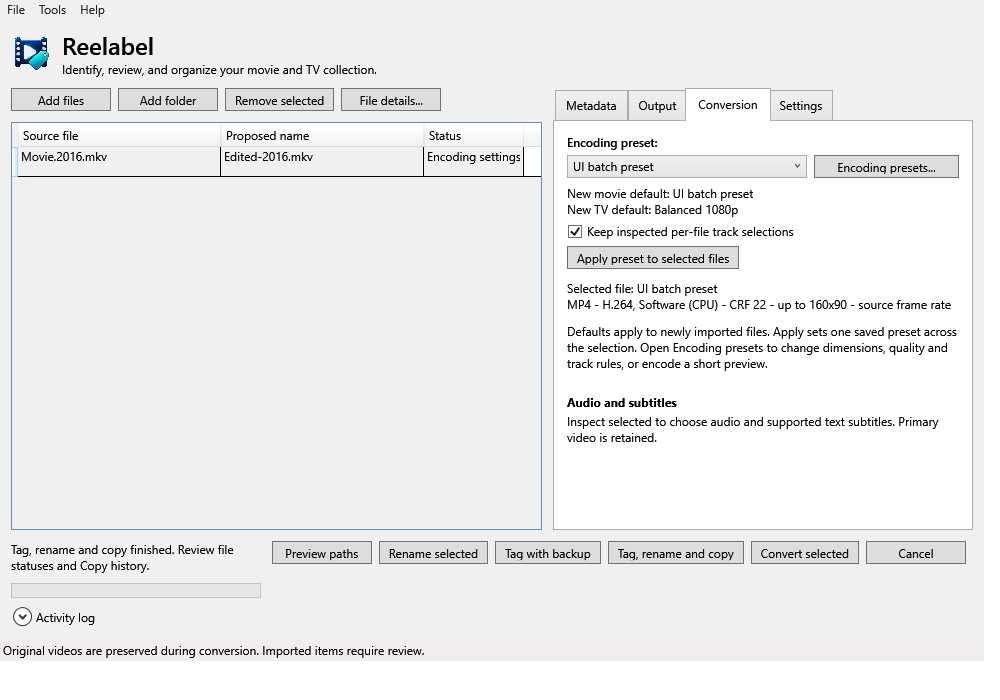
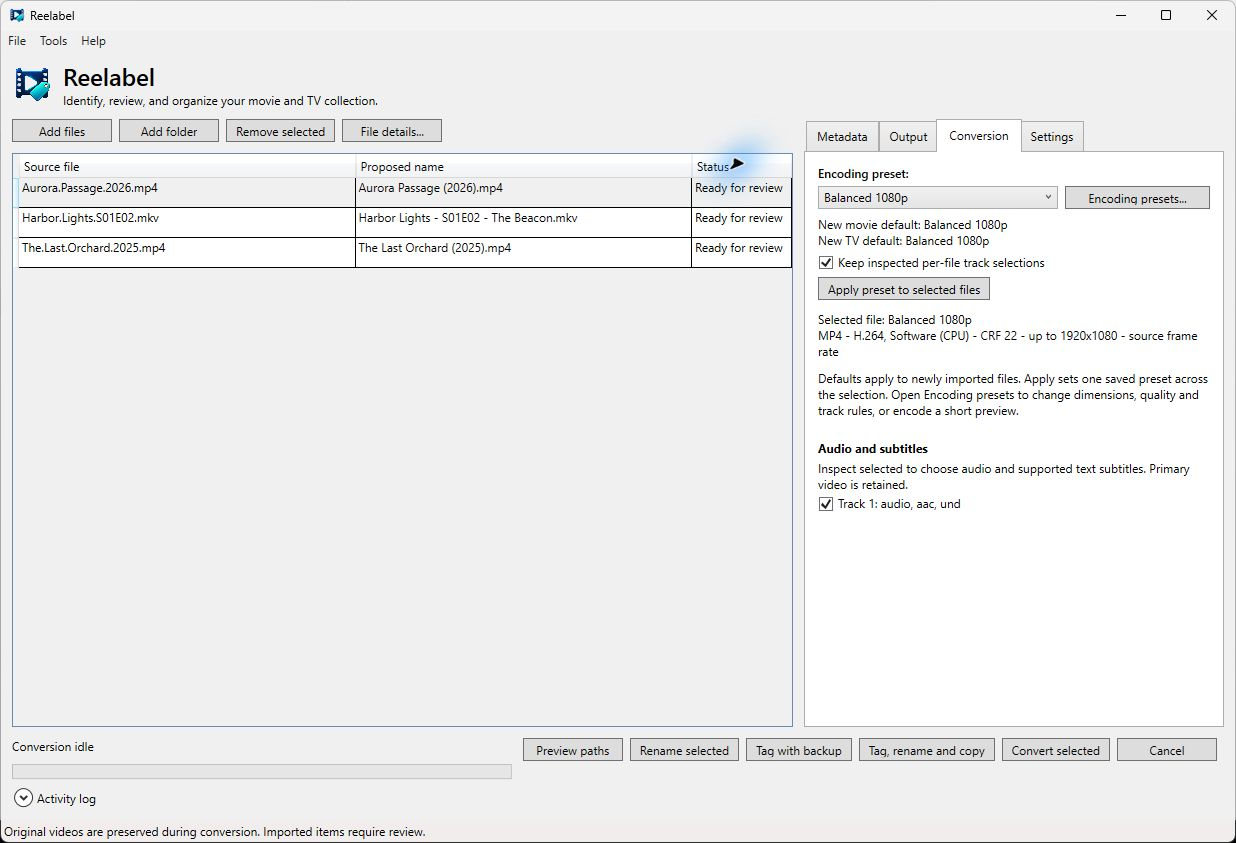
Refresh Reelabel tour with desktop menus, previews and history

Changed region(s): [[0.0, 0.0, 1.0, 1.0]]

diff --git a/docs/reelabel/screen-tour.md b/docs/reelabel/screen-tour.md
@@ -5,10 +5,11 @@ description: A guide to Reelabel's menus, workspace tabs, details editor, naming
 
 ## Main workspace
 
-The images below are current-build WPF UI-check renders from 2026-10-04.
-They use synthetic test data, omit desktop window chrome and open menu popups,
-and include deliberately invalid review rows to show disabled confirmations.
-They contain no provider credentials or personal media.
+Desktop captures were taken on 2026-10-04 with isolated application state and
+disposable synthetic media. Titles, metadata and illustrative posters were
+supplied manually; they are not live provider results. Credential fields are
+empty. Two invalid batch examples are WPF UI-check renders, labeled below.
+There are no personal media or account credentials in these images.
 
 ![Metadata workspace](/img/reelabel/main-metadata.png)
 
@@ -37,6 +38,14 @@ Expand **Activity log** for session progress and errors.
 | Tools | Inspect selected, Preview paths, Undo rename, Restore tag backup, Discard rename recovery, View queue/history, Retry unfinished queue |
 | Help | About / credits |
 
+![File menu](/img/reelabel/menu-file.png)
+
+![Tools menu](/img/reelabel/menu-tools.png)
+
+![Help menu](/img/reelabel/menu-help.png)
+
+![About and provider credits](/img/reelabel/about-credits.png)
+
 Remove selected removes a library entry, not its underlying video. Inspect
 reads streams. Recovery and retry commands require review; see
 [file operations](./file-operations.md). About / credits includes provider
@@ -52,6 +61,21 @@ sources** refreshes configured sources and loads a chosen candidate into the
 draft. **Apply to preview** saves staged details to the library; **Cancel**
 discards them. Embedded tags require a separate file action.
 
+![Inspected audio and video streams](/img/reelabel/details-streams.png)
+
+![Online sources with no services configured](/img/reelabel/details-online-sources.png)
+
+## Provider controls
+
+![TMDB token controls](/img/reelabel/provider-tmdb.png)
+
+![TheTVDB key and optional PIN](/img/reelabel/provider-tvdb.png)
+
+![IMDb local dataset controls](/img/reelabel/provider-imdb.png)
+
+TheTVDB needs a project API key; a subscriber PIN supplements it. IMDb uses
+local non-commercial datasets. See [Metadata](./metadata.md) for setup.
+
 ## Naming profile editor
 
 ![Movie naming profile](/img/reelabel/naming-movies.png)
@@ -62,6 +86,8 @@ discards them. Embedded tags require a separate file action.
 **TV shows** roots and patterns, replacements, and live examples. The token
 helper explains available fields. **Preview selected files** opens the complete
 path review. See [Naming profiles](./naming-profiles.md).
+
+![Naming token helper](/img/reelabel/naming-token-helper.png)
 
 ## Encoding preset editor and preview
 
@@ -81,11 +107,27 @@ processed stills and short test encodes.
 fit or actual-size viewing, playback, seeking, and volume. The external-player
 option handles clips Windows cannot decode. See [Encoding](./encoding.md).
 
+![Real source frame](/img/reelabel/preview-source.png)
+
+![Encoded synthetic test clip](/img/reelabel/preview-encoded.png)
+
+![Larger encoded playback preview](/img/reelabel/preview-large.png)
+
+![Actual-size preview with scrollbars](/img/reelabel/preview-actual-size.png)
+
 ## Batch reviews and history
 
 ![Duplicate naming destination blocks rename](/img/reelabel/naming-validation.png)
 
 ![Missing source blocks queue confirmation](/img/reelabel/encoding-validation.png)
+
+The two invalid reviews above are deliberate WPF UI-check fixtures.
+
+![Naming path review](/img/reelabel/review-paths.png)
+
+![Encoding batch review](/img/reelabel/review-encoding.png)
+
+![Tag, rename and copy review](/img/reelabel/review-tagged-copy.png)
 
 **Preview paths** reviews names without mutations. Rename and tagged-copy
 reviews include full source/destination paths and sidecars. **Review encoding
@@ -95,3 +137,14 @@ errors. Confirmation remains disabled when planning fails.
 **Tools > View queue/history** shows conversion work. **Settings > Copy history**
 shows combined tagged-copy work. Retry and backup recovery remain explicit
 actions after restart.
+
+![Completed conversion history](/img/reelabel/queue-history.png)
+
+![Completed tagged-copy history](/img/reelabel/copy-history.png)
+
+![Expanded session activity log](/img/reelabel/activity-log.png)
+
+Completed records come from real operations on the disposable samples. Original
+video/subtitle hashes remained unchanged after conversion and tagged copying.
+Recovery/retry commands are shown in Tools; these captures do not simulate
+interrupted work or changed-source recovery.

diff --git a/docs/reelabel/changelog.md b/docs/reelabel/changelog.md
@@ -5,6 +5,12 @@ description: Documentation milestones for the Reelabel development preview.
 
 ## 2026-10-04
 
+Refreshed the screen tour with desktop captures of menus, all workspace/editor
+tabs, provider setup, real encoding/playback previews, batch reviews, history
+and the activity log. Empty credential fields and manually supplied demo
+metadata/artwork keep the tour separate from live provider validation. Two
+invalid review examples remain explicitly labeled UI-check fixtures.
+
 Added Reelabel to the portfolio and documentation hub. The documentation covers
 the current private development preview: provider credentials and automatic
 import lookup, saved movie/TV naming profiles, encoding presets and test clips,

diff --git a/docs/reelabel/overview.md b/docs/reelabel/overview.md
@@ -14,7 +14,7 @@ update service. The source repository is private.
 
 ![Reelabel main workspace with metadata and batch actions](/img/reelabel/main-metadata.png)
 
-Current-build UI-check render with synthetic data. Explore the
+Desktop capture with disposable synthetic media and manually supplied demo metadata/artwork. Explore the
 [screen tour](./screen-tour.md) for workspace tabs and editors.
 
 ## What you can do
